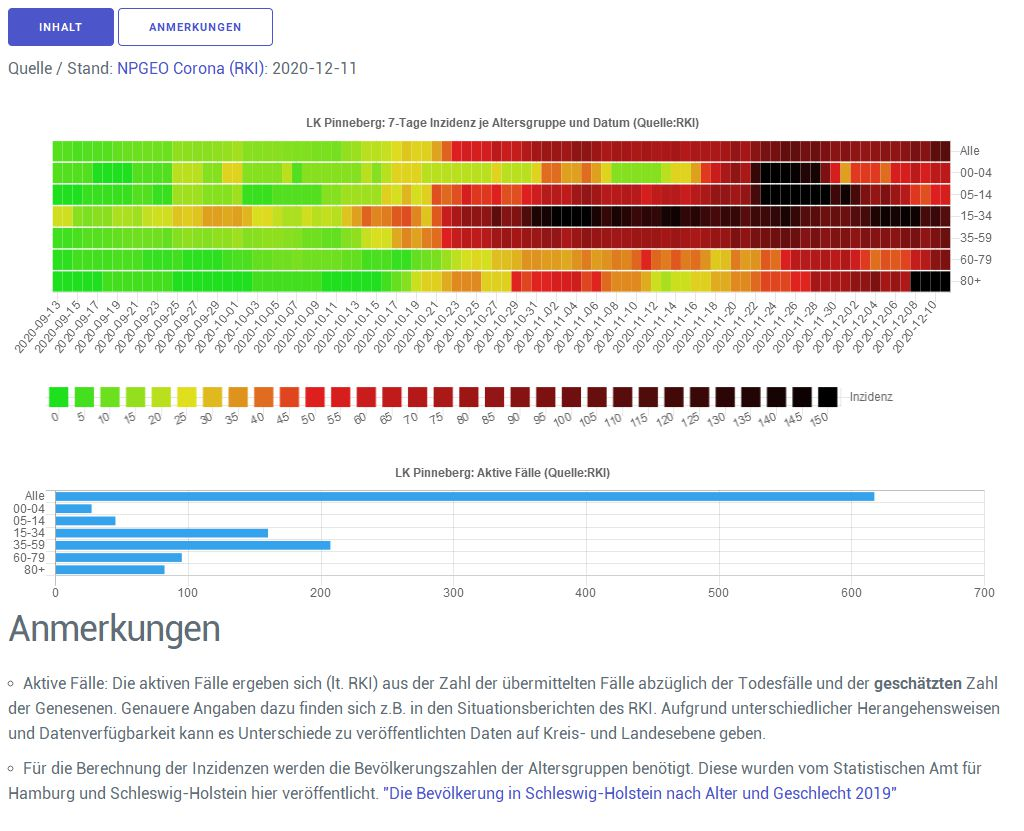
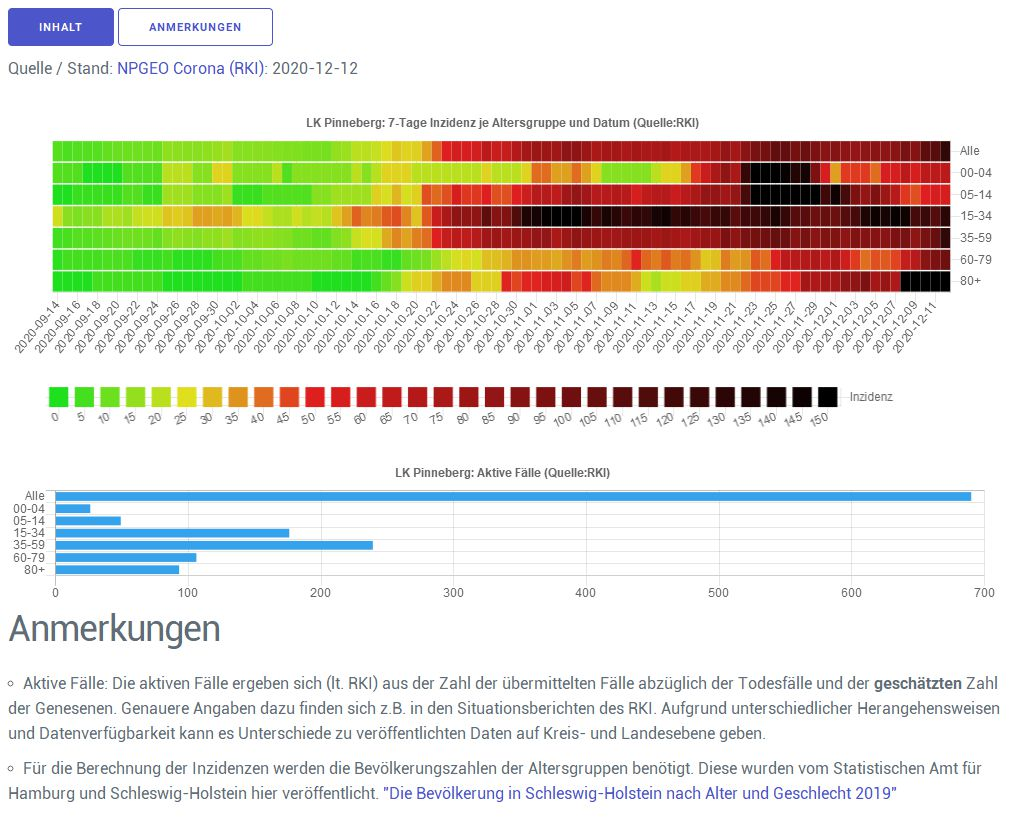
13.12.2020  7:03:03,80

diff --git a/sh/Data_PI_Alter.js b/sh/Data_PI_Alter.js
@@ -4,7 +4,6 @@ var chdata={
 		datasets: [{
 			label: 'Altersgruppeninzidenzen',
 			data: [
-				{x: '2020-09-13', y: 'Alle', v: 6.95975679, casesum: 22},{x: '2020-09-13', y: '00-04', v: 6.65468823, casesum: 1},{x: '2020-09-13', y: '05-14', v: 0, casesum: 0},{x: '2020-09-13', y: '15-34', v: 22.835221, casesum: 15},{x: '2020-09-13', y: '35-59', v: 4.34627654, casesum: 5},{x: '2020-09-13', y: '60-79', v: 1.46023773, casesum: 1},{x: '2020-09-13', y: '80+', v: 0, casesum: 0},
 				{x: '2020-09-14', y: 'Alle', v: 6.95975679, casesum: 22},{x: '2020-09-14', y: '00-04', v: 6.65468823, casesum: 1},{x: '2020-09-14', y: '05-14', v: 0, casesum: 0},{x: '2020-09-14', y: '15-34', v: 22.835221, casesum: 15},{x: '2020-09-14', y: '35-59', v: 4.34627654, casesum: 5},{x: '2020-09-14', y: '60-79', v: 1.46023773, casesum: 1},{x: '2020-09-14', y: '80+', v: 0, casesum: 0},
 				{x: '2020-09-15', y: 'Alle', v: 6.01069904, casesum: 19},{x: '2020-09-15', y: '00-04', v: 6.65468823, casesum: 1},{x: '2020-09-15', y: '05-14', v: 0, casesum: 0},{x: '2020-09-15', y: '15-34', v: 13.7011326, casesum: 9},{x: '2020-09-15', y: '35-59', v: 5.21553185, casesum: 6},{x: '2020-09-15', y: '60-79', v: 4.38071318, casesum: 3},{x: '2020-09-15', y: '80+', v: 0, casesum: 0},
 				{x: '2020-09-16', y: 'Alle', v: 6.64340421, casesum: 21},{x: '2020-09-16', y: '00-04', v: 6.65468823, casesum: 1},{x: '2020-09-16', y: '05-14', v: 3.3675703, casesum: 1},{x: '2020-09-16', y: '15-34', v: 12.1787846, casesum: 8},{x: '2020-09-16', y: '35-59', v: 6.95404247, casesum: 8},{x: '2020-09-16', y: '60-79', v: 4.38071318, casesum: 3},{x: '2020-09-16', y: '80+', v: 0, casesum: 0},
@@ -92,8 +91,9 @@ var chdata={
 				{x: '2020-12-07', y: 'Alle', v: 87.9460176, casesum: 278},{x: '2020-12-07', y: '00-04', v: 53.2375058, casesum: 8},{x: '2020-12-07', y: '05-14', v: 67.351406, casesum: 20},{x: '2020-12-07', y: '15-34', v: 146.145415, casesum: 96},{x: '2020-12-07', y: '35-59', v: 93.0103181, casesum: 107},{x: '2020-12-07', y: '60-79', v: 45.2673695, casesum: 31},{x: '2020-12-07', y: '80+', v: 72.1695986, casesum: 16},
 				{x: '2020-12-08', y: 'Alle', v: 96.8038899, casesum: 306},{x: '2020-12-08', y: '00-04', v: 66.5468823, casesum: 10},{x: '2020-12-08', y: '05-14', v: 47.1459842, casesum: 14},{x: '2020-12-08', y: '15-34', v: 141.57837, casesum: 93},{x: '2020-12-08', y: '35-59', v: 95.618084, casesum: 110},{x: '2020-12-08', y: '60-79', v: 61.3299845, casesum: 42},{x: '2020-12-08', y: '80+', v: 166.892197, casesum: 37},
 				{x: '2020-12-09', y: 'Alle', v: 89.5277805, casesum: 283},{x: '2020-12-09', y: '00-04', v: 53.2375058, casesum: 8},{x: '2020-12-09', y: '05-14', v: 43.7784139, casesum: 13},{x: '2020-12-09', y: '15-34', v: 117.220801, casesum: 77},{x: '2020-12-09', y: '35-59', v: 85.1870203, casesum: 98},{x: '2020-12-09', y: '60-79', v: 67.1709354, casesum: 46},{x: '2020-12-09', y: '80+', v: 184.934596, casesum: 41},
-				{x: '2020-12-10', y: 'Alle', v: 107.243525, casesum: 339},{x: '2020-12-10', y: '00-04', v: 66.5468823, casesum: 10},{x: '2020-12-10', y: '05-14', v: 50.5135545, casesum: 15},{x: '2020-12-10', y: '15-34', v: 123.310194, casesum: 81},{x: '2020-12-10', y: '35-59', v: 94.7488287, casesum: 109},{x: '2020-12-10', y: '60-79', v: 87.6142636, casesum: 60},{x: '2020-12-10', y: '80+', v: 288.678394, casesum: 64},
-				{x: '2020-12-11', y: 'Alle', v: 109.774346, casesum: 347},{x: '2020-12-11', y: '00-04', v: 66.5468823, casesum: 10},{x: '2020-12-11', y: '05-14', v: 53.8811248, casesum: 16},{x: '2020-12-11', y: '15-34', v: 111.131409, casesum: 73},{x: '2020-12-11', y: '35-59', v: 101.702871, casesum: 117},{x: '2020-12-11', y: '60-79', v: 93.4552145, casesum: 64},{x: '2020-12-11', y: '80+', v: 302.210194, casesum: 67}
+				{x: '2020-12-10', y: 'Alle', v: 107.559878, casesum: 340},{x: '2020-12-10', y: '00-04', v: 66.5468823, casesum: 10},{x: '2020-12-10', y: '05-14', v: 50.5135545, casesum: 15},{x: '2020-12-10', y: '15-34', v: 123.310194, casesum: 81},{x: '2020-12-10', y: '35-59', v: 95.618084, casesum: 110},{x: '2020-12-10', y: '60-79', v: 87.6142636, casesum: 60},{x: '2020-12-10', y: '80+', v: 288.678394, casesum: 64},
+				{x: '2020-12-11', y: 'Alle', v: 110.723403, casesum: 350},{x: '2020-12-11', y: '00-04', v: 66.5468823, casesum: 10},{x: '2020-12-11', y: '05-14', v: 53.8811248, casesum: 16},{x: '2020-12-11', y: '15-34', v: 111.131409, casesum: 73},{x: '2020-12-11', y: '35-59', v: 104.310637, casesum: 120},{x: '2020-12-11', y: '60-79', v: 93.4552145, casesum: 64},{x: '2020-12-11', y: '80+', v: 302.210194, casesum: 67},
+				{x: '2020-12-12', y: 'Alle', v: 127.49009, casesum: 403},{x: '2020-12-12', y: '00-04', v: 66.5468823, casesum: 10},{x: '2020-12-12', y: '05-14', v: 53.8811248, casesum: 16},{x: '2020-12-12', y: '15-34', v: 130.921934, casesum: 86},{x: '2020-12-12', y: '35-59', v: 127.78053, casesum: 147},{x: '2020-12-12', y: '60-79', v: 100.756403, casesum: 69},{x: '2020-12-12', y: '80+', v: 338.294993, casesum: 75}
 			],
 			backgroundColor: function(context) {
 				return inzColor(context.dataset.data[context.dataIndex].v)
@@ -113,7 +113,7 @@ var chdata={
 	options: {
 		legend: { display: false },
 		scales: {
-			xAxes: [{type: 'category', labels: ["2020-09-13","2020-09-14","2020-09-15","2020-09-16","2020-09-17","2020-09-18","2020-09-19","2020-09-20","2020-09-21","2020-09-22","2020-09-23","2020-09-24","2020-09-25","2020-09-26","2020-09-27","2020-09-28","2020-09-29","2020-09-30","2020-10-01","2020-10-02","2020-10-03","2020-10-04","2020-10-05","2020-10-06","2020-10-07","2020-10-08","2020-10-09","2020-10-10","2020-10-11","2020-10-12","2020-10-13","2020-10-14","2020-10-15","2020-10-16","2020-10-17","2020-10-18","2020-10-19","2020-10-20","2020-10-21","2020-10-22","2020-10-23","2020-10-24","2020-10-25","2020-10-26","2020-10-27","2020-10-28","2020-10-29","2020-10-30","2020-10-31","2020-11-01","2020-11-02","2020-11-03","2020-11-04","2020-11-05","2020-11-06","2020-11-07","2020-11-08","2020-11-09","2020-11-10","2020-11-11","2020-11-12","2020-11-13","2020-11-14","2020-11-15","2020-11-16","2020-11-17","2020-11-18","2020-11-19","2020-11-20","2020-11-21","2020-11-22","2020-11-23","2020-11-24","2020-11-25","2020-11-26","2020-11-27","2020-11-28","2020-11-29","2020-11-30","2020-12-01","2020-12-02","2020-12-03","2020-12-04","2020-12-05","2020-12-06","2020-12-07","2020-12-08","2020-12-09","2020-12-10","2020-12-11",], ticks: {display: true},gridlines:{display:false}}],
+			xAxes: [{type: 'category', labels: ["2020-09-14","2020-09-15","2020-09-16","2020-09-17","2020-09-18","2020-09-19","2020-09-20","2020-09-21","2020-09-22","2020-09-23","2020-09-24","2020-09-25","2020-09-26","2020-09-27","2020-09-28","2020-09-29","2020-09-30","2020-10-01","2020-10-02","2020-10-03","2020-10-04","2020-10-05","2020-10-06","2020-10-07","2020-10-08","2020-10-09","2020-10-10","2020-10-11","2020-10-12","2020-10-13","2020-10-14","2020-10-15","2020-10-16","2020-10-17","2020-10-18","2020-10-19","2020-10-20","2020-10-21","2020-10-22","2020-10-23","2020-10-24","2020-10-25","2020-10-26","2020-10-27","2020-10-28","2020-10-29","2020-10-30","2020-10-31","2020-11-01","2020-11-02","2020-11-03","2020-11-04","2020-11-05","2020-11-06","2020-11-07","2020-11-08","2020-11-09","2020-11-10","2020-11-11","2020-11-12","2020-11-13","2020-11-14","2020-11-15","2020-11-16","2020-11-17","2020-11-18","2020-11-19","2020-11-20","2020-11-21","2020-11-22","2020-11-23","2020-11-24","2020-11-25","2020-11-26","2020-11-27","2020-11-28","2020-11-29","2020-11-30","2020-12-01","2020-12-02","2020-12-03","2020-12-04","2020-12-05","2020-12-06","2020-12-07","2020-12-08","2020-12-09","2020-12-10","2020-12-11","2020-12-12",], ticks: {display: true},gridlines:{display:false}}],
 			yAxes: [{type: 'category', labels: ["Alle","00-04","05-14","15-34","35-59","60-79","80+"], offset:true, ticks: {display: true},gridlines:{display:false}}],
 		},
 	}
@@ -123,7 +123,7 @@ var chdata2={
 	data: {
 		datasets: [{
 			label: 'Aktive Fälle ',
-			data: [617,27,45,160,207,95,82
+			data: [690,26,49,176,239,106,93
 			],
 		}]
 	},

diff --git a/sterblichkeit/sterbefaelle7_rel.js b/sterblichkeit/sterbefaelle7_rel.js
@@ -3883,3 +3883,74 @@ pointRadius: 0,
 fill: '-1',
 data: [0.0,0.0,0.0,1.13,13.79,59.36,129.72,171.18,152.07,107.63,66.43,49.06,31.08,20.16,15.01,10.74,5.85,3.23,3.75,2.44,0.96,1.92,1.22,1.48,2.62,6.37,4.02,2.62,1.4,1.75,2.18,2.62,7.16,11.09,20.16,38.32,86.42,119.59,117.67,102.4,77.34,63.55]},
 ]}
+var chdata={
+ecdc_date: '2020-12-12',
+labels: ["8","9","10","11","12","13","14","15","16","17","18","19","20","21","22","23","24","25","26","27","28","29","30","31","32","33","34","35","36","37","38","39","40","41","42","43","44","45","46","47","48","49"],
+type: 'line',
+datasets: [
+{label: '',
+backgroundColor: 'rgba(255,255,255,0)',
+pointRadius: 0,
+fill: false,
+data: [366.982354,366.982354,366.758794,360.695177,332.178128,231.870606,145.221966,144.994682,153.613057,204.166009,235.190694,265.332903,286.116237,294.997623,333.331125,335.905385,337.718765,316.865319,348.416303,351.605552,356.009413,358.583526,359.341115,361.154839,360.076380,359.445399,356.005211,358.348627,352.885478,353.145149,340.095399,335.040100,329.861037,308.209327,293.892654,243.401699,168.383856,48.880480,32.874250,24.663410,0,47.782906]},
+{label: 'Tschechien',
+backgroundColor: 'burlywood',
+pointRadius: 0,
+fill: '-1',
+data: [0.0,0.0,0.0,0.0,0.0,1.03,4.51,6.57,4.88,3.47,2.54,2.91,1.88,1.69,0.47,0.75,0.19,0.66,1.03,0.38,0.09,0.56,0.94,1.41,0.56,0.56,1.5,0.94,0.94,2.07,4.32,8.64,11.27,26.67,33.52,68.08,110.24,134.27,129.3,97.37,90.05,71.46]},
+{label: 'Schweiz',
+backgroundColor: 'gray',
+pointRadius: 0,
+fill: '-1',
+data: [0.0,0.0,0.12,1.17,5.27,20.95,35.7,34.06,32.65,25.51,16.15,7.61,8.19,4.68,1.76,0.47,1.87,0.12,0.47,0.47,0.0,0.23,1.4,0.7,0.7,0.35,0.59,0.59,0.82,1.29,2.57,1.64,0.59,1.17,3.39,6.32,18.61,43.19,64.6,71.51,78.3,69.75]},
+{label: 'Schweden',
+backgroundColor: 'darkmagenta',
+pointRadius: 0,
+fill: '-1',
+data: [0.0,0.0,0.0,2.15,3.42,15.93,39.49,63.73,65.3,54.64,53.08,50.05,39.2,36.07,26.59,25.22,23.56,20.04,13.39,10.95,8.41,5.67,3.42,1.66,1.66,1.95,1.56,0.98,1.17,1.37,0.98,1.37,1.47,2.25,1.66,3.52,6.65,15.15,21.11,30.11,38.61,30.3]},
+{label: 'Spanien',
+backgroundColor: 'darkgoldenrod',
+pointRadius: 0,
+fill: '-1',
+data: [0.0,0.0,0.11,2.79,25.35,92.98,128.98,98.2,87.35,58.31,44.19,28.91,21.92,23.48,0.0,0.19,0.0,25.29,0.43,0.89,0.38,0.36,0.26,0.28,1.24,2.43,4.71,3.69,8.67,7.01,15.94,15.7,18.19,17.96,18.02,20.82,23.99,62.96,41.25,39.41,43.65,33.75]},
+{label: 'Polen',
+backgroundColor: 'lightcoral',
+pointRadius: 0,
+fill: '-1',
+data: [0.0,0.0,0.0,0.08,0.05,0.34,1.61,3.4,3.66,4.66,3.69,3.19,3.42,2.05,1.79,2.42,2.21,2.87,2.34,2.03,1.47,1.32,1.21,1.5,2.08,1.82,2.16,2.13,2.13,1.82,2.63,3.74,4.74,9.69,14.54,21.78,33.71,52.8,63.44,85.4,91.07,82.03]},
+{label: 'Deutschland',
+backgroundColor: 'yellow',
+pointRadius: 0,
+fill: '-1',
+data: [0.0,0.0,0.0,0.1,0.71,3.88,11.48,16.03,19.53,16.21,12.15,8.99,6.25,4.01,3.05,2.02,1.43,1.14,0.9,0.66,0.61,0.25,0.41,0.28,0.66,0.42,0.46,0.31,0.36,0.29,0.45,0.86,0.87,1.04,1.95,3.07,5.41,9.73,14.41,18.51,25.31,31.91]},
+{label: 'Dänemark',
+backgroundColor: 'red',
+pointRadius: 0,
+fill: '-1',
+data: [0.0,0.0,0.0,0.0,2.24,8.96,16.53,17.05,14.81,12.4,9.47,7.41,4.65,3.1,1.72,2.76,1.72,0.52,0.69,0.34,0.52,0.34,0.34,0.34,0.34,0.69,0.0,0.52,0.52,0.34,1.03,2.24,1.03,2.24,2.07,3.62,3.62,3.27,2.93,4.13,7.23,9.47]},
+{label: 'Österreich',
+backgroundColor: 'firebrick',
+pointRadius: 0,
+fill: '-1',
+data: [0.0,0.0,0.0,0.11,0.79,6.77,13.32,17.05,11.97,10.5,6.77,2.14,1.47,1.24,3.27,0.45,0.56,1.24,1.35,0.56,0.11,0.45,0.23,0.68,0.34,0.79,0.45,0.11,0.23,2.14,1.24,2.48,2.48,5.53,5.53,8.01,13.43,24.95,35.11,59.38,75.29,96.18]},
+{label: 'Italien',
+backgroundColor: 'green',
+pointRadius: 0,
+fill: '-1',
+data: [0.03,0.45,3.38,20.01,56.1,86.08,88.45,68.06,62.24,52.3,38.54,27.92,22.66,16.1,10.02,8.38,7.54,5.12,1.76,2.29,1.51,1.61,0.99,0.73,0.94,3.13,0.63,0.71,1.01,1.14,1.47,2.09,2.49,2.85,5.53,12.19,23.33,40.51,59.97,75.85,84.53,85.34]},
+{label: 'Großbritannien',
+backgroundColor: 'darkblue',
+pointRadius: 0,
+fill: '-1',
+data: [0.0,0.0,0.03,0.41,3.35,18.19,57.17,95.76,95.89,83.72,65.09,48.16,38.68,27.38,27.11,17.71,11.61,7.62,6.63,4.86,3.35,2.22,1.79,1.49,1.07,1.32,0.93,1.13,0.77,1.11,2.04,3.18,5.19,6.65,12.29,17.5,27.16,35.01,43.18,42.91,51.07,44.77]},
+{label: 'Frankreich',
+backgroundColor: 'blue',
+pointRadius: 0,
+fill: '-1',
+data: [0.0,0.01,0.12,1.21,7.03,26.14,78.28,93.59,81.94,49.11,32.02,23.13,19.89,10.28,6.55,5.54,3.82,3.51,2.16,1.72,1.66,2.21,0.6,1.09,0.88,1.27,1.54,1.34,1.43,3.16,5.43,6.36,7.43,7.25,10.57,18.7,31.98,50.45,60.84,63.75,53.86,42.59]},
+{label: 'Belgien',
+backgroundColor: 'darkorange',
+pointRadius: 0,
+fill: '-1',
+data: [0.0,0.0,0.0,1.13,13.79,59.36,129.72,171.18,152.07,107.63,66.43,49.06,31.08,20.16,15.01,10.74,5.85,3.23,3.75,2.44,0.96,1.92,1.22,1.48,2.62,6.37,4.02,2.62,1.4,1.75,2.18,2.62,7.16,11.09,20.16,38.32,86.42,119.59,117.67,102.4,77.34,63.55]},
+]}

diff --git a/sh/index_sh_alter.html b/sh/index_sh_alter.html
@@ -5,7 +5,7 @@
 <meta property="og:image" content="index_sh_alter.jpg" />
 <meta property="og:type" content="website" />
 <meta property="og:locale" content="de_DE" />
-<meta property="og:updated_time" content="2020-12-12T21:45:32+01:00" />
+<meta property="og:updated_time" content="2020-12-13T07:03:04+01:00" />
 <title>Altersverteilung der Corona-Fälle in Schleswig-Holstein</title>
 <link rel="stylesheet" href="../css/style.css" media="screen" type="text/css">
 <link rel="stylesheet" media="screen" href="Chart.min.css"> 

diff --git a/sh/index_pi_alter.html b/sh/index_pi_alter.html
@@ -5,7 +5,7 @@
 <meta property="og:image" content="index_sh_alter.jpg" />
 <meta property="og:type" content="website" />
 <meta property="og:locale" content="de_DE" />
-<meta property="og:updated_time" content="2020-12-12T21:45:32+01:00" />
+<meta property="og:updated_time" content="2020-12-13T07:03:04+01:00" />
 <title>Altersverteilung der Corona-Fälle im Kreis Pinneberg</title>
 <link rel="stylesheet" href="../css/style.css" media="screen" type="text/css">
 <link rel="stylesheet" media="screen" href="Chart.min.css"> 

diff --git a/sh/index.html b/sh/index.html
@@ -5,7 +5,7 @@
 <meta property="og:image" content="index.jpg" />
 <meta property="og:type" content="website" />
 <meta property="og:locale" content="de_DE" />
-<meta property="og:updated_time" content="2020-12-12T21:45:32+01:00" />
+<meta property="og:updated_time" content="2020-12-13T07:03:04+01:00" />
 <title>Corona-Fälle im Kreis Pinneberg</title>
 <link rel="stylesheet" href="../css/style.css" media="screen" type="text/css">
 <link rel="stylesheet" media="screen" href="Chart.min.css"> 

diff --git a/sterblichkeit/sterbefaelle7_ueber.js b/sterblichkeit/sterbefaelle7_ueber.js
@@ -1,6 +1,6 @@
 var ch_stats={
 ecdc_date: '2020-12-12',
-eurostat_date: '2020-12-12',
+eurostat_date: '2020-12-13',
 }
 var chdata=[
 {
